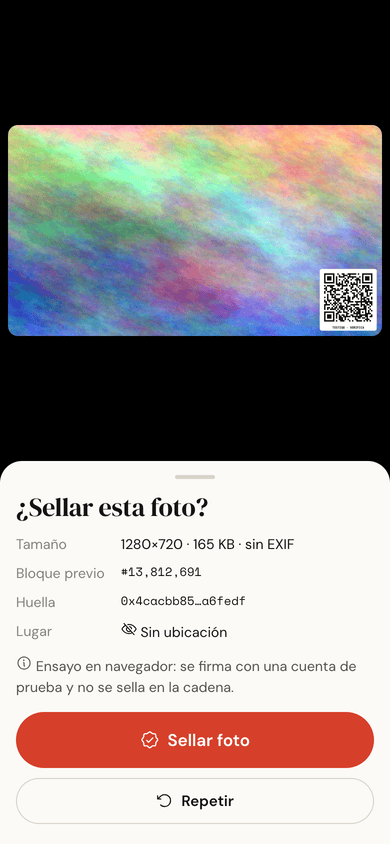
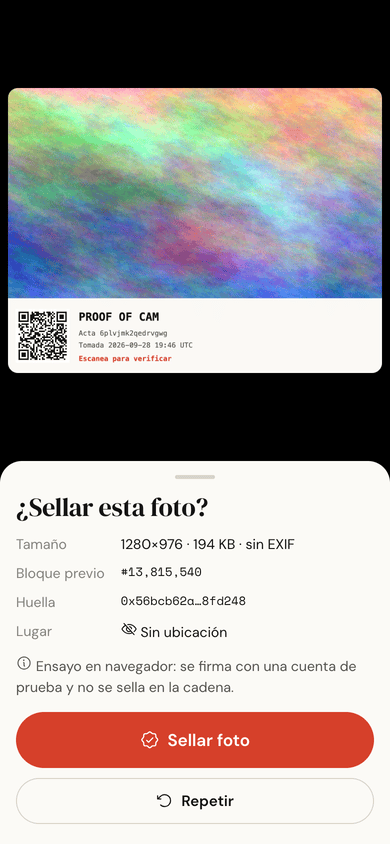
Marco con QR: la foto queda intacta
El QR ya no tapa una esquina de la foto: va en una franja tipo Polaroid
debajo, con el nombre de la app, el id del acta, la hora UTC y
"Escanea para verificar". Solo lleva lo que se sabe antes de firmar.

- La huella exacta cubre el archivo con marco; la visual, solo la foto. El
  verificador prueba la copia entera y la copia sin la franja, así que la
  encuentra aunque alguien le recorte el marco.
- Probado en Chrome: el QR se lee en el original y recomprimido; distancia
  0 de 64 contra copias recomprimidas al 62, 50 y 30 % y sin marco.
- "Sin QR" sigue disponible para la foto completamente limpia.

diff --git a/app/src/lib/photo.ts b/app/src/lib/photo.ts
@@ -1,12 +1,13 @@
 /**
- * De un cuadro de cámara a una foto sellable: QR estampado, JPEG y huellas.
+ * De un cuadro de cámara a una foto sellable: marco con QR, JPEG y huellas.
  *
- * El QR va dentro de la imagen, en una esquina, y apunta al acta de la foto:
- * viaja con ella aunque la reenvíen o le tomen captura de pantalla. Por eso el
- * id se genera antes del disparo y la huella se calcula después de estampar.
+ * La foto no se toca: el QR va en un marco tipo Polaroid debajo de ella y
+ * apunta a su acta, así viaja con la imagen aunque la reenvíen o le tomen
+ * captura. Por eso el id se genera antes del disparo y la huella exacta se
+ * calcula sobre el archivo con marco; la visual, solo sobre la foto.
  */
 import QRCode from 'qrcode';
-import { dhash64, sha256Hex } from './imagehash.ts';
+import { dhash64, sha256Hex, frameHeight, photoRowsOf } from './imagehash.ts';
 import { exifSummary, stripMetadata, type ExifSummary } from './jpeg.ts';
 
 export { exifSummary, stripMetadata, type ExifSummary };
@@ -29,37 +30,52 @@ export interface Shot {
   camera: Facing;
 }
 
-/** Tarjeta blanca con el QR y el nombre de la app, abajo a la derecha. */
-export function drawStamp(canvas: HTMLCanvasElement, url: string): void {
-  const ctx = canvas.getContext('2d')!;
-  const qr = QRCode.create(url, { errorCorrectionLevel: 'M' });
-  const n = qr.modules.size;
-  const quiet = 3;
-  const short = Math.min(canvas.width, canvas.height);
-  const cell = Math.max(5, Math.floor((short * 0.22) / (n + quiet * 2)));
-  const side = cell * (n + quiet * 2);
-  const label = Math.round(cell * 3.2);
-  const margin = Math.round(short * 0.025);
-  const x = canvas.width - side - margin;
-  const y = canvas.height - side - label - margin;
-  const r = cell * 1.5;
+/**
+ * Marco tipo Polaroid: la foto queda intacta y debajo va una franja con el QR
+ * de su acta, el nombre de la app, el id, la hora UTC del disparo y la
+ * invitación a verificarla. Solo lleva lo que se sabe antes de firmar: el
+ * bloque del sello se decide después.
+ */
+export function frameCanvas(photo: HTMLCanvasElement, id: string, takenUtc: string): HTMLCanvasElement {
+  const w = photo.width;
+  const band = frameHeight(w);
+  const out = document.createElement('canvas');
+  out.width = w;
+  out.height = photo.height + band;
+  const ctx = out.getContext('2d')!;
+  ctx.drawImage(photo, 0, 0);
+  ctx.fillStyle = '#faf9f5';
+  ctx.fillRect(0, photo.height, w, band);
 
-  ctx.save();
+  const pad = Math.round(band * 0.1);
+  const qr = QRCode.create(verifyUrl(id), { errorCorrectionLevel: 'M' });
+  const n = qr.modules.size + 4; // dos módulos de zona blanca por lado
+  const cell = Math.floor((band - pad * 2) / n);
+  const side = cell * n;
+  const qx = pad;
+  const qy = photo.height + Math.round((band - side) / 2);
   ctx.fillStyle = '#ffffff';
-  ctx.beginPath();
-  ctx.roundRect(x, y, side, side + label, r);
-  ctx.fill();
-  ctx.fillStyle = '#111111';
-  for (let row = 0; row < n; row++) {
-    for (let col = 0; col < n; col++) {
-      if (qr.modules.get(row, col)) ctx.fillRect(x + (col + quiet) * cell, y + (row + quiet) * cell, cell, cell);
+  ctx.fillRect(qx, qy, side, side);
+  ctx.fillStyle = '#141414';
+  for (let r = 0; r < qr.modules.size; r++) {
+    for (let c = 0; c < qr.modules.size; c++) {
+      if (qr.modules.get(r, c)) ctx.fillRect(qx + (c + 2) * cell, qy + (r + 2) * cell, cell, cell);
     }
   }
-  ctx.font = `700 ${Math.round(cell * 1.9)}px ui-monospace, "SF Mono", Menlo, monospace`;
-  ctx.textAlign = 'center';
-  ctx.textBaseline = 'middle';
-  ctx.fillText('PROOF OF CAM · VERIFICA', x + side / 2, y + side + label * 0.38);
-  ctx.restore();
+
+  const tx = qx + side + Math.round(pad * 1.2);
+  const mono = 'ui-monospace, "SF Mono", Menlo, Consolas, monospace';
+  const line = (text: string, size: number, color: string, weight: number, y: number) => {
+    ctx.font = `${weight} ${Math.round(size)}px ${mono}`;
+    ctx.fillStyle = color;
+    ctx.textBaseline = 'alphabetic';
+    ctx.fillText(text, tx, photo.height + y, w - tx - pad);
+  };
+  line('PROOF OF CAM', band * 0.15, '#141414', 700, band * 0.3);
+  line(`Acta ${id}`, band * 0.095, '#56544e', 400, band * 0.5);
+  line(`Tomada ${takenUtc.replace('T', ' ').replace(/:\d\dZ$/, '')} UTC`, band * 0.095, '#56544e', 400, band * 0.66);
+  line('Escanea para verificar', band * 0.095, '#d6402a', 700, band * 0.84);
+  return out;
 }
 
 function toBlob(canvas: HTMLCanvasElement, type: string, quality: number): Promise<Blob> {
@@ -89,28 +105,33 @@ export async function pixelsOf(blob: Blob): Promise<{ data: Uint8ClampedArray; w
   return { data, w, h, origW, origH };
 }
 
-export async function finishShot(canvas: HTMLCanvasElement, o: { id: string; stamp: boolean; camera: Facing }): Promise<Shot> {
-  if (o.stamp) drawStamp(canvas, verifyUrl(o.id));
-  const bytes = stripMetadata(new Uint8Array(await (await toBlob(canvas, 'image/jpeg', 0.92)).arrayBuffer()));
+export async function finishShot(photo: HTMLCanvasElement, o: { id: string; stamp: boolean; camera: Facing; taken: string }): Promise<Shot> {
+  const out = o.stamp ? frameCanvas(photo, o.id, o.taken) : photo;
+  const bytes = stripMetadata(new Uint8Array(await (await toBlob(out, 'image/jpeg', 0.92)).arrayBuffer()));
   const blob = new Blob([bytes as Uint8Array<ArrayBuffer>], { type: 'image/jpeg' });
   const px = await pixelsOf(blob);
-  return {
+  // Huella visual solo de la foto: las filas de arriba, sin la franja del marco.
+  const rows = o.stamp ? Math.round(photo.height * (px.h / out.height)) : px.h;
+  const shot = {
     id: o.id,
     blob,
     bytes,
     url: URL.createObjectURL(blob),
     sha256: sha256Hex(bytes),
-    visual: dhash64(px.data, px.w, px.h),
-    w: canvas.width,
-    h: canvas.height,
+    visual: dhash64(px.data, px.w, rows),
+    w: out.width,
+    h: out.height,
     stamp: o.stamp,
     camera: o.camera,
   };
+  if (out !== photo) out.width = out.height = 0;
+  return shot;
 }
 
 export interface FileHashes {
   sha256: `0x${string}`;
-  visual: bigint;
+  /** Candidatas: la copia entera y, si puede traer marco, la copia sin la franja. */
+  visual: bigint[];
   w: number;
   h: number;
   size: number;
@@ -121,5 +142,8 @@ export interface FileHashes {
 export async function hashFile(file: Blob): Promise<FileHashes> {
   const bytes = new Uint8Array(await file.arrayBuffer());
   const px = await pixelsOf(file);
-  return { sha256: sha256Hex(bytes), visual: dhash64(px.data, px.w, px.h), w: px.origW, h: px.origH, size: bytes.length, exif: exifSummary(bytes) };
+  const visual = [dhash64(px.data, px.w, px.h)];
+  const rows = Math.round(photoRowsOf(px.origW, px.origH) * (px.h / px.origH));
+  if (rows >= 8 && frameHeight(px.origW) < px.origH) visual.push(dhash64(px.data, px.w, rows));
+  return { sha256: sha256Hex(bytes), visual, w: px.origW, h: px.origH, size: bytes.length, exif: exifSummary(bytes) };
 }

diff --git a/app/src/views/camera.ts b/app/src/views/camera.ts
@@ -77,7 +77,7 @@ export function renderCamera(root: HTMLElement): Cleanup {
   const chips = () => `
     <div class="chips" role="group" aria-label="Opciones de la foto">
       <button class="chip${wantLocation ? ' on' : ''}" id="t-loc" aria-pressed="${wantLocation}">${icon(wantLocation ? 'mapPin' : 'eyeSlash')}${wantLocation ? 'Ubicación cifrada' : 'Sin ubicación'}</button>
-      <button class="chip${wantStamp ? ' on' : ''}" id="t-stamp" aria-pressed="${wantStamp}">${icon('qrCode')}${wantStamp ? 'QR en la foto' : 'Sin QR'}</button>
+      <button class="chip${wantStamp ? ' on' : ''}" id="t-stamp" aria-pressed="${wantStamp}">${icon('qrCode')}${wantStamp ? 'Marco con QR' : 'Sin QR'}</button>
     </div>`;
 
   const bindChips = () => {
@@ -171,7 +171,7 @@ export function renderCamera(root: HTMLElement): Cleanup {
     }
     root.innerHTML = `<div class="cam"><div class="cam-center"><i class="spin"></i><p>Preparando la foto…${wantLocation ? '<br>y pidiendo la ubicación (hasta 25 s)' : ''}</p></div></div>`;
     try {
-      shot = await finishShot(frame, { id: newId(), stamp: wantStamp, camera: facingNow });
+      shot = await finishShot(frame, { id: newId(), stamp: wantStamp, camera: facingNow, taken });
       frame.width = frame.height = 0;
     } catch (e) {
       return intro(`No se pudo preparar la foto: ${(e as Error).message}`);
@@ -376,7 +376,7 @@ export function renderCamera(root: HTMLElement): Cleanup {
         <div class="grab"></div>
         <span class="pill ${rehearsal ? '' : 'ok'}">${icon('sealFill')}${rehearsal ? 'Ensayo firmado' : `Sellada en el bloque ${fmtBlock(sealedBlock)}`}</span>
         <h2 style="margin-top:10px">Guárdala en tu teléfono</h2>
-        <p class="muted" style="font-size:14px">Es la única copia: no está en ningún servidor ni en la cadena. ${shot.stamp ? 'El QR de la esquina lleva a su acta.' : ''}</p>
+        <p class="muted" style="font-size:14px">Es la única copia: no está en ningún servidor ni en la cadena. ${shot.stamp ? 'El QR del marco lleva a su acta; la foto no se tocó.' : 'Sin QR: se verifica soltándola en «Verificar».'}</p>
         <div class="actions" style="margin-top:14px">
           <button class="btn accent block" id="save">${icon('downloadSimple')}${share ? 'Guardar en mi teléfono' : 'Ver la foto para guardarla'}</button>
           ${share ? `<button class="btn ghost block" id="viewer">${icon('image')}Ver la foto para guardarla</button>` : ''}

diff --git a/app/src/views/verify.ts b/app/src/views/verify.ts
@@ -10,6 +10,8 @@ import { hexToU8a } from '@polkadot/util';
 import { icon } from '../lib/icons';
 import { isId } from '../lib/ids.ts';
 import { compareHashes, dhashHex, SIMILAR_MAX, hamming, isWeakVisual, type MatchKind } from '../lib/imagehash.ts';
+
+const nearest = (sealed: bigint, candidates: bigint[]) => Math.min(...candidates.map(c => hamming(sealed, c)));
 import { parseReceipt, verifyReceiptSig, addressOf, type Receipt } from '../lib/receipt.ts';
 import { LEVELS, decodeProof, verifyProof, openLocation, makeProof, encodeProof, type Level } from '../lib/loc.ts';
 import { hashFile, verifyUrl, type FileHashes } from '../lib/photo';
@@ -126,7 +128,7 @@ export function renderActa(root: HTMLElement, id: string, locParam: string | nul
         <dl class="kv">
           <dt>Tomada</dt><dd>entre el bloque ${fmtBlock(r.block.n)} y el ${fmtBlock(p.blockNumber)} (${window} bloques)</dd>
           <dt>Hora del teléfono</dt><dd>${esc(r.taken)} (UTC, la declara el teléfono)</dd>
-          <dt>QR en la foto</dt><dd>${r.stamp ? 'sí' : 'no'}</dd>
+          <dt>Marco con QR</dt><dd>${r.stamp ? 'sí (la foto va arriba, intacta)' : 'no'}</dd>
           <dt>Huella exacta</dt><dd class="mono">${esc(r.sha256)}</dd>
           <dt>Huella visual</dt><dd class="mono">${esc(r.dhash)}</dd>
           <dt>Firmó</dt><dd class="mono">${esc(addressOf(p.pubkey))}</dd>
@@ -289,12 +291,12 @@ export function renderFinder(root: HTMLElement): Cleanup {
         location.hash = `#/f/${exact}`;
         return;
       }
-      if (isWeakVisual(h.visual)) {
+      if (h.visual.every(isWeakVisual)) {
         out.innerHTML = row('warn', 'Sin acta para esta copia exacta', `Esta imagen tiene muy poco detalle para buscarla por parecido. Si tienes su enlace o el QR, úsalo.${exifNote}`);
         return;
       }
       const all = await withReadClient(c => allVisualHashes(c));
-      const best = all.filter(x => !isWeakVisual(x.visual)).map(x => ({ ...x, d: hamming(x.visual, h.visual) })).sort((a, b) => a.d - b.d)[0];
+      const best = all.filter(x => !isWeakVisual(x.visual)).map(x => ({ ...x, d: nearest(x.visual, h.visual) })).sort((a, b) => a.d - b.d)[0];
       if (best && best.d <= SIMILAR_MAX) {
         carried = { id: best.id, file: h };
         out.innerHTML = row(best.d <= 6 ? 'ok' : 'warn', 'Encontramos una foto sellada que se parece', `Diferencia visual ${best.d} de 64.${exifNote}`) +

diff --git a/app/test/core.test.ts b/app/test/core.test.ts
@@ -197,3 +197,23 @@ test('jpeg: se quitan EXIF, IPTC y comentarios; se conservan JFIF, perfil de col
   const notJpeg = new Uint8Array([1, 2, 3]);
   assert.equal(stripMetadata(notJpeg), notJpeg);
 });
+
+test('marco con QR: la huella visual es la de la foto, y el verificador la encuentra con o sin marco', async () => {
+  const { frameHeight, photoRowsOf, compareHashes: cmp } = await import('../src/lib/imagehash.ts');
+  // Foto vertical de iPhone 1440×2560 → marco de 288 px → archivo 1440×2848.
+  assert.equal(frameHeight(1440), 288);
+  assert.equal(photoRowsOf(1440, 2848), 2560);
+  // Copia reducida a la mitad por un chat: la proporción se mantiene.
+  assert.equal(photoRowsOf(720, 1424), 1280);
+  const w = 320, h = 240, band = frameHeight(w);
+  const photo = scene(w, h, 0);
+  const framed = new Uint8ClampedArray(w * (h + band) * 4).fill(250);
+  framed.set(photo);
+  const sealed = dhash64(framed, w, photoRowsOf(w, h + band));
+  assert.equal(sealed, dhash64(photo, w, h), 'la franja no entra en la huella');
+  const withFrame = [dhash64(framed, w, h + band), dhash64(framed, w, photoRowsOf(w, h + band))];
+  const cropped = [dhash64(photo, w, h)];
+  const exact = sha256Hex(new Uint8Array([7]));
+  assert.equal(cmp({ sha256: exact, visual: sealed }, { sha256: sha256Hex(new Uint8Array([8])), visual: withFrame }).distance, 0);
+  assert.equal(cmp({ sha256: exact, visual: sealed }, { sha256: sha256Hex(new Uint8Array([9])), visual: cropped }).distance, 0);
+});

diff --git a/app/src/lib/imagehash.ts b/app/src/lib/imagehash.ts
@@ -87,11 +87,26 @@ export function isWeakVisual(h: bigint): boolean {
   return Math.min(ones, 64 - ones) < WEAK_BELOW;
 }
 
+/**
+ * Marco con QR: una franja debajo de la foto, de alto proporcional al ancho.
+ * La huella visual se calcula solo sobre la foto, sin la franja, para que una
+ * copia a la que le recortaron el marco se siga reconociendo.
+ */
+export const FRAME_RATIO = 0.2;
+export const frameHeight = (width: number) => Math.round(width * FRAME_RATIO);
+/** Filas de foto de una imagen que trae el marco: todo menos la franja de abajo. */
+export const photoRowsOf = (width: number, height: number) => height - frameHeight(width);
+
+/**
+ * `copy.visual` puede traer varias candidatas (la copia entera y la copia sin
+ * la franja del marco): cuenta la más parecida.
+ */
 export function compareHashes(
   sealed: { sha256: string; visual: bigint },
-  copy: { sha256: string; visual: bigint },
+  copy: { sha256: string; visual: bigint | bigint[] },
 ): { kind: MatchKind; distance: number } {
-  const distance = hamming(sealed.visual, copy.visual);
+  const candidates = Array.isArray(copy.visual) ? copy.visual : [copy.visual];
+  const distance = Math.min(...candidates.map(v => hamming(sealed.visual, v)));
   if (sealed.sha256.toLowerCase() === copy.sha256.toLowerCase()) return { kind: 'exact', distance: 0 };
   if (isWeakVisual(sealed.visual)) return { kind: 'weak', distance };
   if (distance <= SAME_MAX) return { kind: 'same', distance };

diff --git a/app/src/lib/ids.ts b/app/src/lib/ids.ts
@@ -1,7 +1,7 @@
 /**
  * Identificador de una foto: 16 caracteres base32 (80 bits al azar).
  *
- * Va en el QR estampado en la foto y es la llave del acta en el contrato: sus
+ * Va en el QR del marco de la foto y es la llave del acta en el contrato: sus
  * 16 bytes ASCII caben justo en un `bytes16`. Se genera antes del disparo
  * porque el QR forma parte de la imagen que se firma.
  */

diff --git a/app/src/lib/receipt.ts b/app/src/lib/receipt.ts
@@ -27,7 +27,7 @@ export interface Receipt {
   sha256: string;
   /** dHash de 64 bits, 16 caracteres hex. */
   dhash: string;
-  /** Si la foto lleva el QR estampado. */
+  /** Si la foto lleva el marco con QR. */
   stamp: boolean;
   /** Hora del disparo según el teléfono, UTC, sin milisegundos. La cadena da las cotas reales. */
   taken: string;

diff --git a/docs/viabilidad.md b/docs/viabilidad.md
@@ -9,12 +9,13 @@ acta `ckaaqtce3u7gukpz`, bloque 13,814,797, verificada con `npm run verify`.
 | Pieza | Evidencia |
 |---|---|
 | **Todo el flujo en iPhone** | Polkadot App iOS, 28 sep 2026: el host conecta con el códec 1, la cámara funciona dentro de la app, la firma y la transacción al contrato también. Acta `ckaaqtce3u7gukpz`: firma válida, coincide con su recibo, bloque previo #13,814,764 existe |
+| Marco con QR | La foto queda intacta y el QR va en una franja debajo. En Chrome: el QR se lee en el original y recomprimido, y la huella visual da 0 de 64 contra la copia entera, recomprimida al 30 % o sin el marco |
 | Huella visual con fotos reales | Una copia de una foto sellada, recomprimida al pasarla del iPhone a la Mac, da distancia 0 de 64 contra su acta. Otra toma de la misma escena da 14: "no es esta foto" |
 | Cuenta de producto con saldo | En iOS, la cuenta de producto de `proofofcam.dot` ya tenía 5,000 PAS en el devnet: el modo seudónimo no necesitó faucet |
 | Contrato `PhotoRegistry` | Desplegado en el Asset Hub del devnet: `0xa0d30345400061439517417fc0a202adfe3ebb27`, bloque 13,812,904. Un sello simulado con un recibo de ~700 bytes pasa: depósito de 0.087 PAS y 6.8 G de peso |
 | Firma con la identidad `.dot` y transacción a un contrato desde una app | Probado en Polkadot Desktop 0.1.3 con [testalk](https://github.com/w3nerick/testalk) (27 y 28 sep 2026). Proof of Cam usa el mismo camino: [`firma-y-cuentas.md`](firma-y-cuentas.md) |
 | Cámara dentro de Polkadot App en Android | `getUserMedia` funciona dentro de un producto ([products-devnet-issues #7](https://github.com/Polkadot-Community-Foundation/products-devnet-issues/issues/7), Pixel 10 Pro XL, ago 2026); el host concede la cámara (`ProductWebChromeClient.onPermissionRequest` en la app Android) |
-| La app completa en un navegador | Chrome con cámara simulada: la cámara se apaga al disparar; la foto sale sin EXIF; el QR estampado se lee en el original y en una copia recomprimida; la huella visual cambia 0–1 bits de 64 incluso reducida al 30 %; cero peticiones externas al abrir la app y al tomar una foto con ubicación |
+| La app completa en un navegador | Chrome con cámara simulada: la cámara se apaga al disparar; la foto sale sin EXIF; el QR del marco se lee en el original y en una copia recomprimida; la huella visual cambia 0–1 bits de 64 incluso reducida al 30 %; cero peticiones externas al abrir la app y al tomar una foto con ubicación |
 | Pruebas | App: 7 (ids, geohash, huellas, ubicación, recibo). Contrato: 15 en EVM local. Ambas en CI |
 | Sin Bulletin | El recibo va entero al contrato, así que el fallo de subida de archivos en Android ([#13](https://github.com/Polkadot-Community-Foundation/products-devnet-issues/issues/13)) no le afecta |
 
@@ -53,14 +54,14 @@ cámara de la laptop. Como demo es viable en cualquier escenario.
   el devnet no importa; en producción hay que decidir quién lo paga o si las
   actas caducan.
 - **Adopción.** Sirve si quien recibe la foto quiere verificarla. El QR
-  estampado baja la fricción, pero hay que explicarlo.
+  del marco baja la fricción, pero hay que explicarlo.
 
 ## Para qué sirve
 
 | Uso | Cómo se usa |
 |---|---|
 | **Periodismo y reportes ciudadanos** | Seudónimo, ubicación revelada solo a nivel ciudad. El acta prueba que la foto existía antes de que alguien diga que es falsa |
-| **Evidencia de eventos** (por ejemplo, la UANL) | Firma con identidad y QR en la foto: quien la vea en redes sabe quién la tomó y cuándo |
+| **Evidencia de eventos** (por ejemplo, la UANL) | Firma con identidad y marco con QR: quien la vea en redes sabe quién la tomó y cuándo |
 | **Seguros, peritajes, avance de obra** | Identidad y ubicación revelada al nivel "punto" solo a la aseguradora o al cliente; la cota de tiempo sale de la cadena, no del teléfono |
 | **Derechos humanos** | Seudónimo fondeado desde el faucet y ubicación apagada o a nivel región. Es el uso de ProofMode, con identidad opcional y verificación sin instalar nada |
 | **Fact-checking con Firefly** | Firefly (Parity) es verificación anónima de hechos por humanos verificados. Proof of Cam puede ser su cámara de evidencia; con alias de Individuality, cada foto la firmaría un humano real sin decir quién |

diff --git a/README.md b/README.md
@@ -20,7 +20,7 @@ cadena solo quedan sus huellas.
 <p align="center">
   <img src="docs/img/camara.png" width="24%" alt="Visor con el bloque de Asset Hub en vivo" />
   <img src="docs/img/revision.png" width="24%" alt="Revisión antes de sellar: tamaño sin EXIF, bloque previo y huella" />
-  <img src="docs/img/sellada.png" width="24%" alt="Foto sellada con el QR estampado y opciones para guardarla" />
+  <img src="docs/img/sellada.png" width="24%" alt="Foto sellada con su marco: QR, id del acta y hora, debajo de la foto intacta" />
   <img src="docs/img/ubicacion-oscuro.png" width="24%" alt="Ubicación cifrada, en modo oscuro" />
 </p>
 
@@ -61,7 +61,7 @@ En [`docs/viabilidad.md`](docs/viabilidad.md).
 
 ```mermaid
 flowchart LR
-    C[Cámara de la app] -->|un cuadro, sin EXIF| F[Foto + QR estampado]
+    C[Cámara de la app] -->|un cuadro, sin EXIF| F[Foto + marco con QR]
     B[(Asset Hub)] -->|último bloque| R
     F -->|sha256 + dHash| R[Recibo]
     R -->|firma sr25519<br/>identidad .dot o seudónimo| S[PhotoRegistry]
@@ -72,10 +72,12 @@ flowchart LR
 
 1. **Disparo.** La cámara se enciende dentro de la app y se apaga en el instante
    del disparo. El teléfono anota el último bloque finalizado de Asset Hub.
-2. **Foto.** El cuadro pasa por un canvas (pierde cualquier EXIF) y se le
-   estampa un QR con el enlace a su acta.
+2. **Foto.** El cuadro pasa por un canvas y se le quita cualquier metadato. La
+   foto no se toca: debajo se agrega un marco tipo Polaroid con el QR de su
+   acta, el id y la hora UTC (o nada, con "Sin QR").
 3. **Huellas.** sha256 del archivo (prueba igualdad exacta) y un dHash de 64
-   bits (reconoce la foto después de que un chat la recomprima).
+   bits solo de la foto, sin el marco: reconoce la foto después de que un chat
+   la recomprima o de que alguien le recorte el marco.
 4. **Recibo.** Id, huellas, bloque, hora UTC y, si se quiso, la ubicación
    cifrada. Se firma con la identidad `.dot` o con la cuenta de la app.
 5. **Sello.** El recibo entero va a `PhotoRegistry`: no caduca y no depende de
@@ -146,7 +148,7 @@ proofofcam/
 ├── app/                      Interfaz (se publica en proofofcam.dot)
 │   ├── src/lib/
 │   │   ├── camera.ts         getUserMedia, un cuadro y apagado inmediato
-│   │   ├── photo.ts          QR estampado, JPEG, huellas, detección de EXIF
+│   │   ├── photo.ts          Marco con QR, JPEG y huellas
 │   │   ├── imagehash.ts      sha256, dHash, comparación y huellas débiles
 │   │   ├── loc.ts            Ubicación: compromisos por nivel, cifrado, pruebas
 │   │   ├── geohash.ts        Coordenadas → celdas, sin servicios externos
